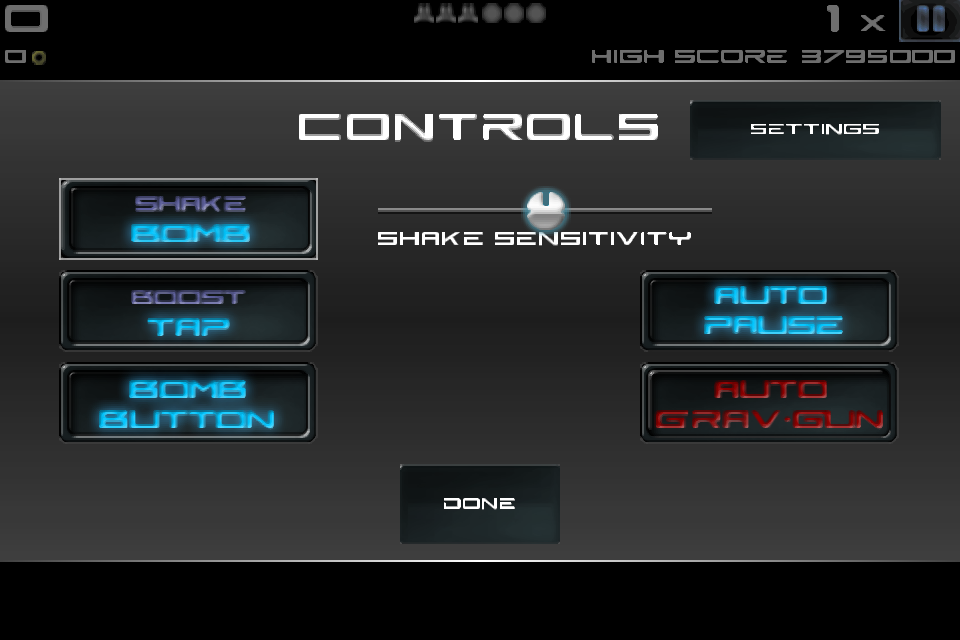
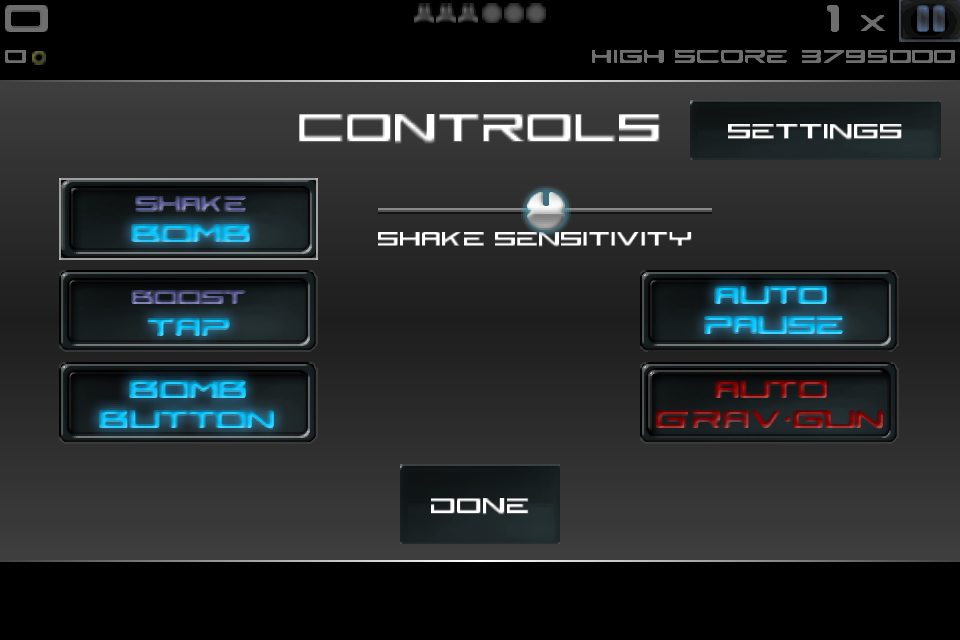
fix: match the pause labels to the emulator's rasterised text

diff --git a/src/pause.rs b/src/pause.rs
@@ -14,6 +14,10 @@ use crate::play::{Play, Upgrade, UPGRADES};
 
 pub struct PauseAssets {
     pub button: Texture2D,
+    /// The popup's text: the original `ngage` atlas at 1x with linear
+    /// filtering, since the engine drew labels from a low-resolution
+    /// rasterised texture rather than the HUD's crisp glyph quads.
+    pub label_font: Font,
     pub white: Texture2D,
     /// Slider knob (`Slider::draw` draws the 25x25 peg texture).
     pub peg: Texture2D,
@@ -536,13 +540,13 @@ impl Pause {
         &self,
         canvas: &Canvas,
         assets: &PauseAssets,
-        font: &Font,
         play: &Play,
         settings: &Settings,
     ) {
         if self.alpha <= 0.0 {
             return;
         }
+        let font = &assets.label_font;
         self.draw_panel(canvas, assets);
         match self.page {
             Page::Main => self.draw_main(canvas, assets, font, settings),
@@ -841,7 +845,7 @@ impl Pause {
         font.text(
             text,
             x + w * 0.5,
-            y + h * 0.5 - 7.5 * scale,
+            y + h * 0.5 - 7.5 * scale + label_dy(),
             scale,
             Align::Centre,
             Color::new(1.0, 1.0, 1.0, self.alpha),
@@ -921,7 +925,11 @@ impl Pause {
 /// a fixed size, so the port draws them at one scale; 0.4 matches the
 /// emulator pause frame. `MB_LABEL_SCALE` pins it for captures.
 fn fit_scale(_font: &Font, _text: &str, _w: f32, _h: f32) -> f32 {
-    const LABEL_SCALE: f32 = 0.4;
+    // Measured against frame_00030.png: the emulator's labels are about
+    // 1.35x the previous 0.4 atlas scale, and the glyphs are blurred by the
+    // engine's label-texture scaling. A single fixed scale fits every page
+    // best (per-label fits overfit our glyph metrics).
+    const LABEL_SCALE: f32 = 0.54;
     static FORCED: std::sync::OnceLock<Option<f32>> = std::sync::OnceLock::new();
     let forced = *FORCED.get_or_init(|| {
         std::env::var("MB_LABEL_SCALE")
@@ -929,6 +937,19 @@ fn fit_scale(_font: &Font, _text: &str, _w: f32, _h: f32) -> f32 {
             .and_then(|v| v.parse::<f32>().ok())
     });
     forced.map_or(LABEL_SCALE, |s| s.clamp(0.35, 0.9))
+}
+
+/// A vertical nudge for the pause labels. The original draws the label
+/// texture at the button's centre; our glyph quads sit about 1 px high, so
+/// the measured offset compensates. `MB_LABEL_DY` overrides it.
+fn label_dy() -> f32 {
+    static DY: std::sync::OnceLock<f32> = std::sync::OnceLock::new();
+    *DY.get_or_init(|| {
+        std::env::var("MB_LABEL_DY")
+            .ok()
+            .and_then(|v| v.parse::<f32>().ok())
+            .unwrap_or(1.0)
+    })
 }
 
 /// A 26x26 button background drawn as the original `DynamicButton`'s

diff --git a/src/main.rs b/src/main.rs
@@ -575,8 +575,18 @@ async fn load_play_assets() -> PlayAssets {
 }
 
 async fn load_pause_assets() -> PauseAssets {
+    // The popup text uses the original 1x atlas with linear filtering: the
+    // engine rasterised each label into a low-resolution texture, so the
+    // glyphs are blurred rather than the HUD's crisp quads.
+    let label_font = Font::new(
+        load_texture("assets/ui/ngage.png").await.unwrap(),
+        &load_file("original/app/ngage.dat").await.unwrap(),
+        1.0,
+    );
+    label_font.set_filter(FilterMode::Linear);
     PauseAssets {
         button: load_ui("button").await,
+        label_font,
         white: Texture2D::from_rgba8(1, 1, &[255, 255, 255, 255]),
         peg: load_ui("peg").await,
         upgrade_bg: load_ui("buttonUpgradeBackground").await,
@@ -1051,7 +1061,7 @@ async fn main() {
                     g.draw(&canvas, &play_assets);
                     tutorial.draw(&canvas, &ui["captions"]);
                     if let Some(p) = pause.as_ref() {
-                        p.draw(&canvas, &pause_assets, &play_assets.hud.font, g, &settings);
+                        p.draw(&canvas, &pause_assets, g, &settings);
                     }
                 }
             }

diff --git a/src/hud.rs b/src/hud.rs
@@ -65,6 +65,12 @@ impl Font {
         }
     }
 
+    /// Overrides the atlas filtering, e.g. linear for the pause labels,
+    /// which the original rasterised into a low-resolution texture.
+    pub fn set_filter(&self, filter: FilterMode) {
+        self.texture.set_filter(filter);
+    }
+
     /// TextureAtlas::add: a glyph's quad, top-left at (x, y), scaled.
     fn glyph(&self, index: usize, x: f32, y: f32, scale: f32, color: Color) {
         let [gx, gy, gw, gh] = self.glyphs[index];

diff --git a/AGENTS.md b/AGENTS.md
@@ -42,7 +42,7 @@ Done (faithful to the binary unless noted):
 - Stage advance keeps the run: `Play::advance_stage` starts the next stage in the same screen, carrying score, rings, upgrade points, upgrades, lives, bombs and multiplier, like the original's `GameScreen::handleEvent` next-stage case; only the stage's world state restarts.
 
 Approximations / not yet faithful:
-- Pause buttons use the original `DynamicButton` nine-slice metrics (5 px corners, 16 px edges, 16x16 centre stretched between them) and the `ngage` font at a fixed 0.4 scale, matching the emulator pause frame; the engine's per-label atlas is not reproduced, so glyph pixels differ slightly. Sliders use the original three-line track and the 25x25 `peg.png` knob at the decompiled offset. Panel bands and rules match the decompiled colours and alpha (rules are horizontal gradients at popup alpha).
+- Pause buttons use the original `DynamicButton` nine-slice metrics (5 px corners, 16 px edges, 16x16 centre stretched between them) and a 1x `ngage` atlas with linear filtering at the measured 0.54 scale and +1 px offset, which matches the emulator's rasterised label textures far better than the previous 0.4 nearest quads (button-region diff sum 55.8 vs 80.3; whole pause frame 13.1 vs 14.1 against `frame_00030.png`). The engine's per-label atlas is still not reproduced, so glyph shapes differ slightly; per-button scale fits did not beat the single fixed scale. Sliders use the original three-line track and the 25x25 `peg.png` knob at the decompiled offset. Panel bands and rules match the decompiled colours and alpha (rules are horizontal gradients at popup alpha).
 - `Settings` (music, effects, flip, shake, boost, bomb, auto pause/gravity/upgrade) now persist to `settings.txt`, matching `PausePopup::save/load`; a first launch writes the defaults, and changes are written through as they are made.
 - High-score tables keep local arcade and survival rows in `scores.txt`. A run that makes the table opens `labelEnterName` first (typed letters/digits, up to eight; Escape keeps `PLAYER`), and the Global tab reports that the leaderboard is offline, since the original's Game Center server is gone.
 - The HELP page shows the original control diagram (`keyboard.png`) with the caption block (`captions.png`) below it. In game, the tutorial hints (`Tutorial::canShow*`) show `captions.png` once per session when the player first scores, reaches multiplier 2, uses a bomb, or loses a life.
@@ -70,7 +70,8 @@ Test hooks (env):
 - `MB_HD=0` loads the original art instead of `assets/4x/` (1 forces HD); emulator-frame comparisons use 0. The web build always loads the originals.
 - `MB_FONT_FILTER=linear` switches the bitmap font back to linear filtering.
 - `MB_PAUSE=<menu|controls|upgrade|clear|gameover>` opens a pause page for screenshot runs; it starts stage 1.1 when no stage is running, so the popup draws over a game. `original/screenshots/emu/frame_00030.png` is the pause main-page reference.
-- `MB_LABEL_SCALE=<n>` pins the pause button label scale (default 0.4), for comparing label sizes against the emulator.
+- `MB_LABEL_SCALE=<n>` pins the pause button label scale (default 0.54), for comparing label sizes against the emulator.
+- `MB_LABEL_DY=<n>` nudges the pause labels vertically (default 1.0), for matching the emulator's label placement.
 - `MB_BG_BASE` / `MB_BG_DECAL_TEX` override the menu backdrop textures (defaults `space4deep`/`fogRed`), for comparing against emulator frames.
 - `MB_AUTOFIRE`, `MB_GUN`, `MB_BOMB_AT`, `MB_WEAPON` and `MB_DRIFT` drive play unattended.
 - `MB_FPS=<n>` overrides the 60 Hz frame cap (`0` = uncapped). `MB_PROF=1` prints update/draw CPU per 120 frames; `MB_PROF_FRAMES=n` exits after n frames for benchmarks. Screenshot runs are uncapped unless `MB_FPS` is given, so `MB_SHOT_FRAME` still selects the same state.

diff --git a/README.md b/README.md
@@ -20,13 +20,13 @@ Playable end to end:
 - Native-resolution rendering: the canvas renders at the window's fitted resolution with a 1:1 blit, and the pixel font uses nearest filtering. The original 480×320 framebuffer stays available via `MB_RENDER_SCALE=1` for emulator comparisons.
 - HD art on desktop: 4x sprites, UI and font atlas, and 2x terrain textures, generated from the originals by `tools/upscale4x.py` (xBR for pixel art, Real-ESRGAN for the terrain). `MB_HD=0` selects the untouched originals, which is what the emulator-frame comparisons use; the web build stays on the originals.
 
-Verified against emulator frames: the main-menu buttons are pixel-exact, and the pause panel's bands, rules, button nine-slice and slider knob match the decompiled drawing and the emulator pause frame. `cargo test` covers the boss patterns, gravity gun, ground scroll, settings, scores, tutorial gates and stick menu navigation.
+Verified against emulator frames: the main-menu buttons are pixel-exact, and the pause panel's bands, rules, button nine-slice and slider knob match the decompiled drawing and the emulator pause frame; the popup's labels were measured against that frame (whole-frame diff 13.1). `cargo test` covers the boss patterns, gravity gun, ground scroll, settings, scores, tutorial gates and stick menu navigation.
 
 Known approximations:
 
 - The 3D planet backdrop uses the decompiled curved mesh and the original textures; the menu's texture axes are matched to the emulator frame, but the play-plane backdrop still differs in scroll phase and brightness.
 - HD art is a generated approximation, not the original art: xBR smooths the pixel sprites/UI and the ESRGAN terrain is reinterpreted. The emulator-frame comparisons therefore run with `MB_HD=0` (originals); with HD on, the main-menu frame diff rises from 7.5 to 8.3.
-- Pause button labels are drawn with the original `ngage` font at the measured atlas scale rather than from the engine's per-label atlas, so glyph pixels differ slightly.
+- Pause button labels use the original `ngage` glyphs at the measured 0.54 scale with linear filtering (the engine rasterised labels into low-resolution textures), rather than the engine's per-label atlas, so glyph shapes still differ slightly.
 - The Global high-score tab reports that the leaderboard is offline, because the original Game Center server is gone.
 
 ## Build

diff --git a/worklog/2026-10-29.md b/worklog/2026-10-29.md
@@ -35,3 +35,27 @@ Blockers: none for this task.
 ### Web build
 
 - `cargo check --target wasm32-unknown-unknown` and `tools/build-web.sh` both pass with the new loader: no `std::fs` on the asset path, and `asset_scale()` defaults to 1 on wasm so the bundle loads the original art. Rebuilt `web/meteor-blitz.wasm`. A browser run is still to be done (the page loads but rendering was not inspected).
+
+## Pause label fidelity against the emulator frame
+
+Follow-up to the HD work: the pause popup's buttons were pixel-exact but its labels were too small and too crisp. Measured in `original/screenshots/emu/frame_00030.png`: the emulator's "Resume" label is 70x8 px, the port's was 53x6 at the old 0.4 nearest scale, i.e. about 1.35x too small and unblurred.
+
+### Changed
+
+- `PauseAssets` now carries its own `label_font`: the original 1x `ngage` atlas with linear filtering, matching the engine's low-resolution rasterised label texture instead of the HUD's crisp glyph quads. All popup text (titles, button labels, upgrade captions) uses it; the HUD and score screens keep the HD/nearest font.
+- `fit_scale` default is 0.54 (was 0.4) and `label_dy()` adds the measured +1 px vertical offset; `MB_LABEL_DY` overrides it.
+- `Font::set_filter` added so the pause atlas can opt into linear filtering.
+
+### Verified with real output
+
+- Scale/offset/filter sweep against `frame_00030.png` (480x320, MB_HD=0): summed button-region diff 80.3 for 0.4 nearest, 55.8 for 0.54 + 1 px + linear. Per-button optima (flip 0.54, resume 0.54, quit 0.60, upgrade 0.52, controls 0.56) summed to 49.5, but no simple per-button fit beat the fixed scale, so the fixed value stays.
+- Whole pause frame: 13.12 with the originals (was 14.83) and 13.18 with HD art (was 14.18); the "Paused" title region dropped 13.35 -> 8.58.
+- Text bboxes checked on every page at 480x320: menu 114x8/71x7/39x7/84x7/96x8, controls 87x7/47x7, quit 71x7/39x7, clear and game-over 87x7 — all inside their button rects.
+- `cargo test` 12 passed; refreshed `screenshots/pause.png` and `screenshots/controls.png` at 960x640.
+
+### Next
+
+- The clear/game-over/upgrade pages still have no emulator reference frames; capture them with touchHLE when it is available.
+- Windows pad run; browser check of the web build.
+
+Blockers: none.
